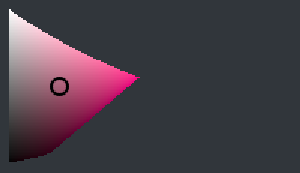
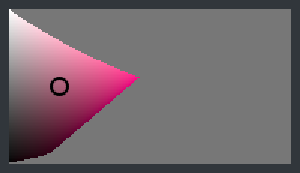
Provide information about maximum chroma in color space object

diff --git a/src/chromahuediagram.cpp b/src/chromahuediagram.cpp
@@ -460,9 +460,13 @@ void ChromaHueDiagram::resizeEvent(QResizeEvent *event)
  * @sa @ref ChromaHueMeasurement "Measurement details" */
 QPointF ChromaHueDiagram::ChromaHueDiagramPrivate::widgetCoordinatesFromCurrentColor() const
 {
-    const qreal scaleFactor = (q_pointer->maximumWidgetSquareSize() - 2 * diagramBorder()) / static_cast<qreal>(2 * m_maxChroma);
+    const qreal scaleFactor = (q_pointer->maximumWidgetSquareSize() - 2.0 * diagramBorder()) / (2.0 * m_rgbColorSpace->maximumChroma());
     QPointF currentColor = PolarPointF(m_currentColor.c, m_currentColor.h).toCartesian();
-    return QPointF(currentColor.x() * scaleFactor + diagramOffset(), diagramOffset() - currentColor.y() * scaleFactor);
+    return QPointF(
+        // x:
+        currentColor.x() * scaleFactor + diagramOffset(),
+        // y:
+        diagramOffset() - currentColor.y() * scaleFactor);
 }
 
 /** @brief Converts widget pixel positions to Lab coordinates
@@ -475,7 +479,7 @@ QPointF ChromaHueDiagram::ChromaHueDiagramPrivate::widgetCoordinatesFromCurrentC
  * @sa @ref ChromaHueMeasurement "Measurement details" */
 cmsCIELab ChromaHueDiagram::ChromaHueDiagramPrivate::fromWidgetPixelPositionToLab(const QPoint position) const
 {
-    const qreal scaleFactor = static_cast<qreal>(2 * m_maxChroma) / (q_pointer->maximumWidgetSquareSize() - 2 * diagramBorder());
+    const qreal scaleFactor = (2.0 * m_rgbColorSpace->maximumChroma()) / (q_pointer->maximumWidgetSquareSize() - 2.0 * diagramBorder());
     // The pixel at position 0 0 has its top left border at position 0 0
     // and its bottom right border at position 1 1 and its center at
     // position 0.5 0.5. Its the center of the pixel that is our reference
@@ -512,10 +516,10 @@ cmsCIELab ChromaHueDiagram::ChromaHueDiagramPrivate::fromWidgetPixelPositionToLa
  * @internal
  *
  * @todo What when the mouse goes outside the gray circle, but more
- * gamut is available outside (because @ref m_maxChroma was chosen too small)?
- * For consistency, the handle of the diagram should stay within the gray
- * circle, and this should be interpretat also actually as the value at
- * the position of the handle. */
+ * gamut is available outside (because @ref RgbColorSpace::maximumChroma()
+ * was chosen too small)? For consistency, the handle of the diagram should
+ * stay within the gray circle, and this should be interpretat also actually
+ * as the value at the position of the handle. */
 void ChromaHueDiagram::ChromaHueDiagramPrivate::setColorFromWidgetPixelPosition(const QPoint position)
 {
     cmsCIELab lab = fromWidgetPixelPositionToLab(position);
@@ -618,7 +622,7 @@ void ChromaHueDiagram::paintEvent(QPaintEvent *event)
     // that might depend on devicePixelRatioF() is updated before painting.
     d_pointer->m_chromaHueImage.setBorder(d_pointer->diagramBorder() * devicePixelRatioF());
     d_pointer->m_chromaHueImage.setImageSize(maximumPhysicalSquareSize());
-    d_pointer->m_chromaHueImage.setChromaRange(d_pointer->m_maxChroma);
+    d_pointer->m_chromaHueImage.setChromaRange(d_pointer->m_rgbColorSpace->maximumChroma());
     d_pointer->m_chromaHueImage.setLightness(d_pointer->m_currentColor.l);
     d_pointer->m_chromaHueImage.setDevicePixelRatioF(devicePixelRatioF());
     bufferPainter.drawImage(QPoint(0, 0),                          // position of the image

diff --git a/src/chromalightnessdiagram.cpp b/src/chromalightnessdiagram.cpp
@@ -90,9 +90,6 @@ ChromaLightnessDiagram::ChromaLightnessDiagramPrivate::ChromaLightnessDiagramPri
 // TODO xxx Review starts here
 // TODO Review also @ref ChromaLightnessImage::getImage()
 
-// TODO Rename ChromaHueDiagramPrivate::widgetCoordinatesFromCurrentColor() to
-// fromCurrentColorToWidgetCoordinatePoint()
-
 // TODO Remove setDevicePixelRatioF from all *Image classes. (This might
 // be confusing, and at the same time there is no real need/benefit.)
 
@@ -555,9 +552,6 @@ void ChromaLightnessDiagram::resizeEvent(QResizeEvent *event)
     //      need be (or should be) done inside this handler.”
 }
 
-// TODO how to treat empty images because the color profile does not
-// work or the resolution is too small?
-
 /** @brief Provide the size hint.
  *
  * Reimplemented from base class.
@@ -581,9 +575,20 @@ QSize ChromaLightnessDiagram::sizeHint() const
  */
 QSize ChromaLightnessDiagram::minimumSizeHint() const
 {
-    const int minimum = 2 * d_pointer->m_defaultBorder + gradientMinimumLength();
+    const int minimumHeight = qRound(
+        // Left border and right border:
+        2 * d_pointer->m_defaultBorder
+        // Add the height for the diagram:
+        + gradientMinimumLength());
+    const int minimumWidth = qRound(
+        // Left border and right border:
+        2 * d_pointer->m_defaultBorder
+        // Add the gradient minimum length from y axis, multiplied with
+        // the factor to allow at correct scaling showing up the whole
+        // chroma range of the gamut.
+        + gradientMinimumLength() * d_pointer->m_rgbColorSpace->maximumChroma() / 100.0);
     // Expand to the global minimum size for GUI elements
-    return QSize(minimum, minimum).expandedTo(QApplication::globalStrut());
+    return QSize(minimumWidth, minimumHeight).expandedTo(QApplication::globalStrut());
 }
 
 // TODO what to do if a gamut allows lightness < 0 or lightness > 100 ???

diff --git a/src/rgbcolorspace.cpp b/src/rgbcolorspace.cpp
@@ -58,7 +58,7 @@ RgbColorSpace::RgbColorSpace(QObject *parent)
         nullptr);
     // Create an ICC profile object for the sRGB color space.
     cmsHPROFILE rgbProfileHandle = cmsCreate_sRGBProfile();
-    d_pointer->m_cmsInfoDescription = d_pointer->getInformationFromProfile(rgbProfileHandle, cmsInfoDescription);
+    d_pointer->m_cmsInfoDescription = d_pointer->getInformationFromProfile(rgbProfileHandle, cmsInfoDescription); // TODO This results in "sRGB built-in". Use instead a more descriptive name that has also to be localized with tr().
     d_pointer->m_cmsInfoCopyright = d_pointer->getInformationFromProfile(rgbProfileHandle, cmsInfoCopyright);
     d_pointer->m_cmsInfoManufacturer = d_pointer->getInformationFromProfile(rgbProfileHandle, cmsInfoManufacturer);
     d_pointer->m_cmsInfoModel = d_pointer->getInformationFromProfile(rgbProfileHandle, cmsInfoModel);
@@ -103,6 +103,9 @@ RgbColorSpace::RgbColorSpace(QObject *parent)
     // Close profile (free memory)
     cmsCloseProfile(labProfileHandle);
     cmsCloseProfile(rgbProfileHandle);
+
+    // Maximum chroma:
+    d_pointer->m_maximumChroma = LchValues::srgbMaximumChroma;
 
     // Now we know for sure that lowerChroma is in-gamut and upperChroma is
     // out-of-gamut…
@@ -566,6 +569,11 @@ QString RgbColorSpace::RgbColorSpacePrivate::getInformationFromProfile(cmsHPROFI
 
     // Return
     return result;
+}
+
+int RgbColorSpace::maximumChroma() const
+{
+    return d_pointer->m_maximumChroma;
 }
 
 } // namespace PerceptualColor

diff --git a/src/chromahuediagram_p.h b/src/chromahuediagram_p.h
@@ -85,12 +85,6 @@ public:
      * circular widget, only reacting on mouse events within the circle;
      * this requires this custom implementation. */
     bool m_isMouseEventActive = false;
-    /** @brief The maximum chroma value.
-     *
-     * This is the chroma value that is on the border of the gray circle.
-     *
-     * @todo This should not be hard-coded to sRGB. */
-    qreal m_maxChroma = LchValues::srgbMaximumChroma;
     /** @brief Pointer to @ref RgbColorSpace object used to describe the
      * color space. */
     QSharedPointer<PerceptualColor::RgbColorSpace> m_rgbColorSpace;

diff --git a/src/chromalightnessimage.cpp b/src/chromalightnessimage.cpp
@@ -31,6 +31,7 @@
 // First the interface, which forces the header to be self-contained.
 #include "chromalightnessimage.h"
 
+#include "lchvalues.h"
 #include "polarpointf.h"
 
 #include <QPainter>
@@ -121,8 +122,8 @@ QImage ChromaLightnessImage::getImage()
         return m_image;
     }
 
-    // Initialize the image with transparency.
-    m_image.fill(Qt::transparent);
+    // Initialize the image background
+    m_image.fill(m_rgbColorSpace->colorRgbBound(LchValues::neutralGray));
 
     // Paint the gamut.
     LCh.h = PolarPointF::normalizedAngleDegree(m_hue);

diff --git a/src/rgbcolorspace.h b/src/rgbcolorspace.h
@@ -74,6 +74,7 @@ public:
     Q_INVOKABLE bool isInGamut(const cmsCIELab &lab) const;
     Q_INVOKABLE bool isInGamut(const double lightness, const double chroma, const double hue) const;
     Q_INVOKABLE bool isInGamut(const PerceptualColor::LchDouble &lch) const;
+    Q_INVOKABLE int maximumChroma() const;
     // TODO Wording: Do not use “sacrify” but “preserve”. And maybe put this
     // into an enum, allowing to call this function with various enum
     // values that preserve different axis.

diff --git a/src/rgbcolorspace_p.h b/src/rgbcolorspace_p.h
@@ -34,6 +34,7 @@
 #include "rgbcolorspace.h"
 
 #include "constpropagatingrawpointer.h"
+#include "lchvalues.h"
 #include "rgbdouble.h"
 
 namespace PerceptualColor
@@ -57,6 +58,7 @@ public:
     QString m_cmsInfoDescription;
     QString m_cmsInfoManufacturer;
     QString m_cmsInfoModel;
+    int m_maximumChroma = LchValues::humanMaximumChroma;
     cmsHTRANSFORM m_transformLabToRgb16Handle;
     cmsHTRANSFORM m_transformLabToRgbHandle;
     cmsHTRANSFORM m_transformRgbToLabHandle;

diff --git a/tools/generatescreenshots.cpp b/tools/generatescreenshots.cpp
@@ -92,7 +92,7 @@ int main(int argc, char *argv[])
         style = QStyleFactory::create(QStringLiteral("Fusion"));
     }
     QApplication::setStyle(style); // This call is save even if style==nulltrp.
-    app.setApplicationName(QObject::tr(u8"Perceptual color picker"));
+    app.setApplicationName(QStringLiteral("Perceptual color picker"));
     app.setLayoutDirection(Qt::LeftToRight);
     QLocale::setDefault(QLocale::English);
 
